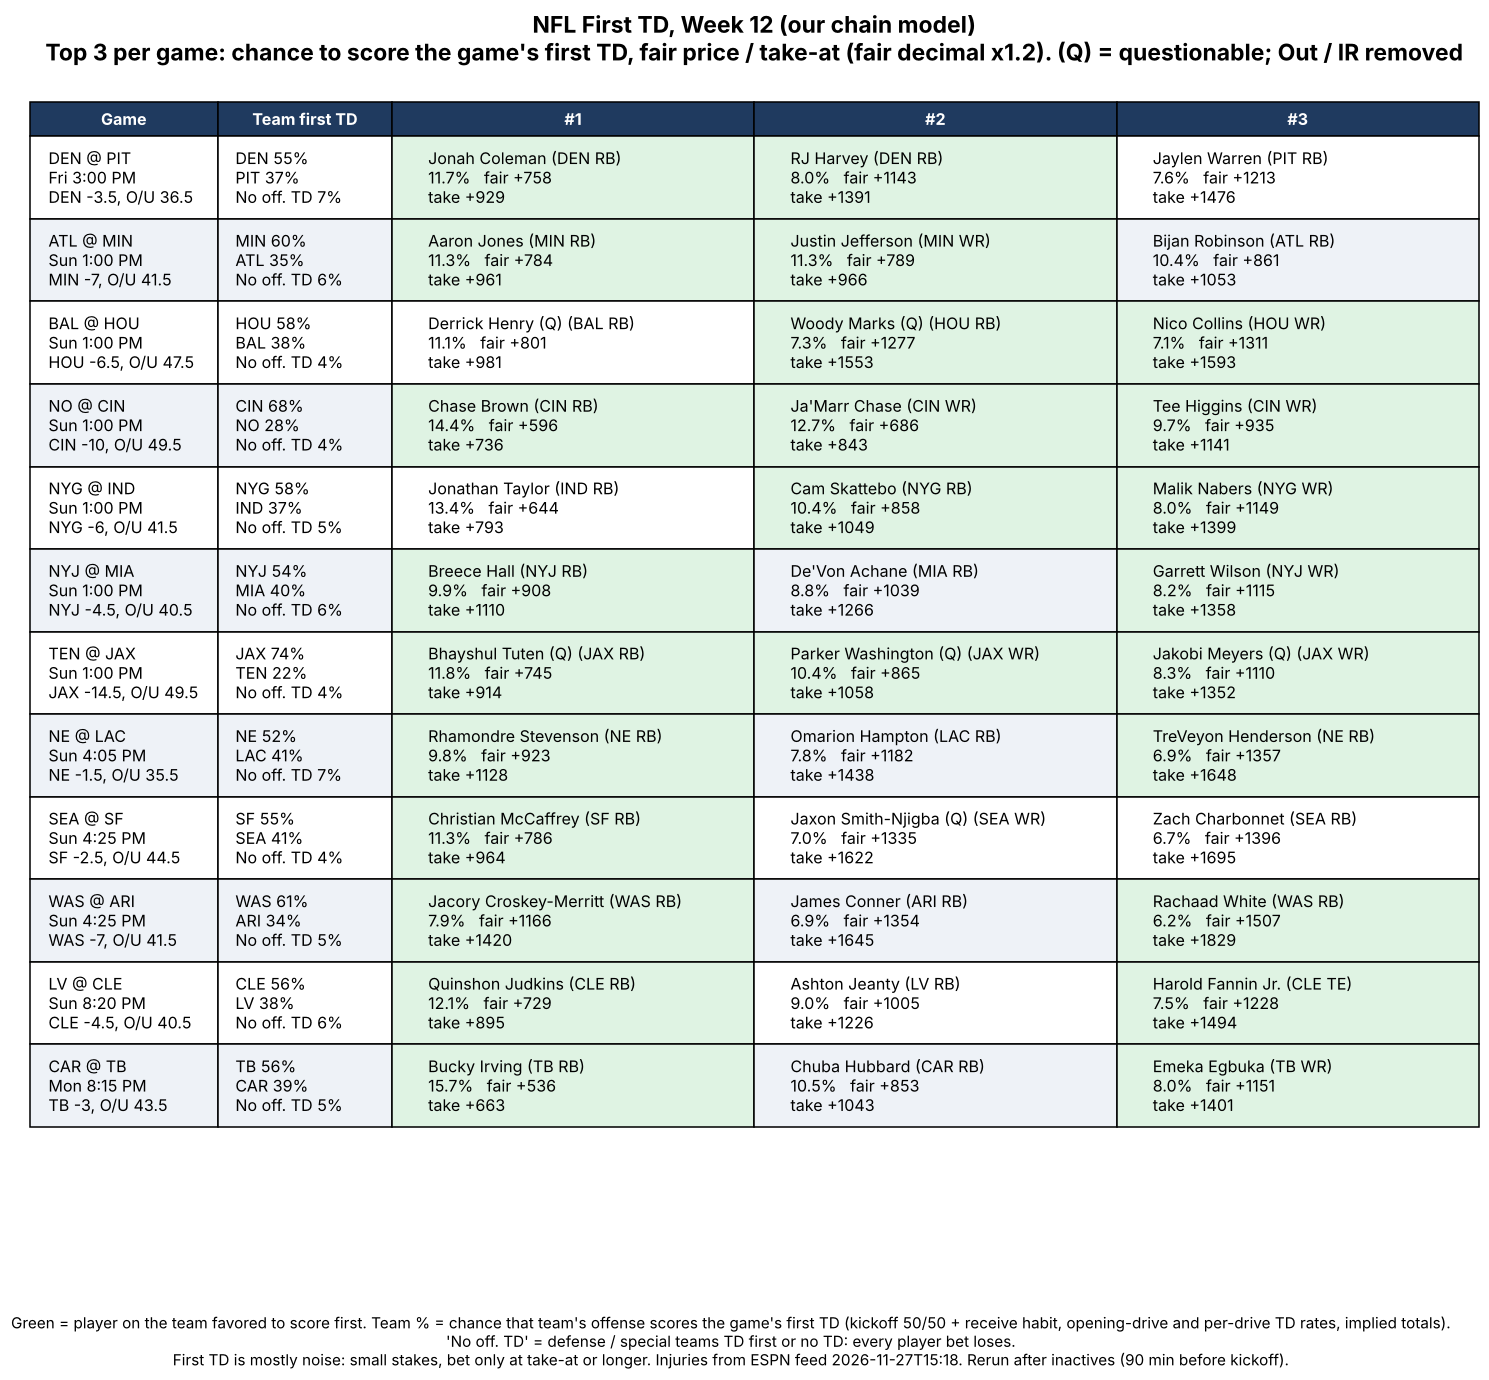
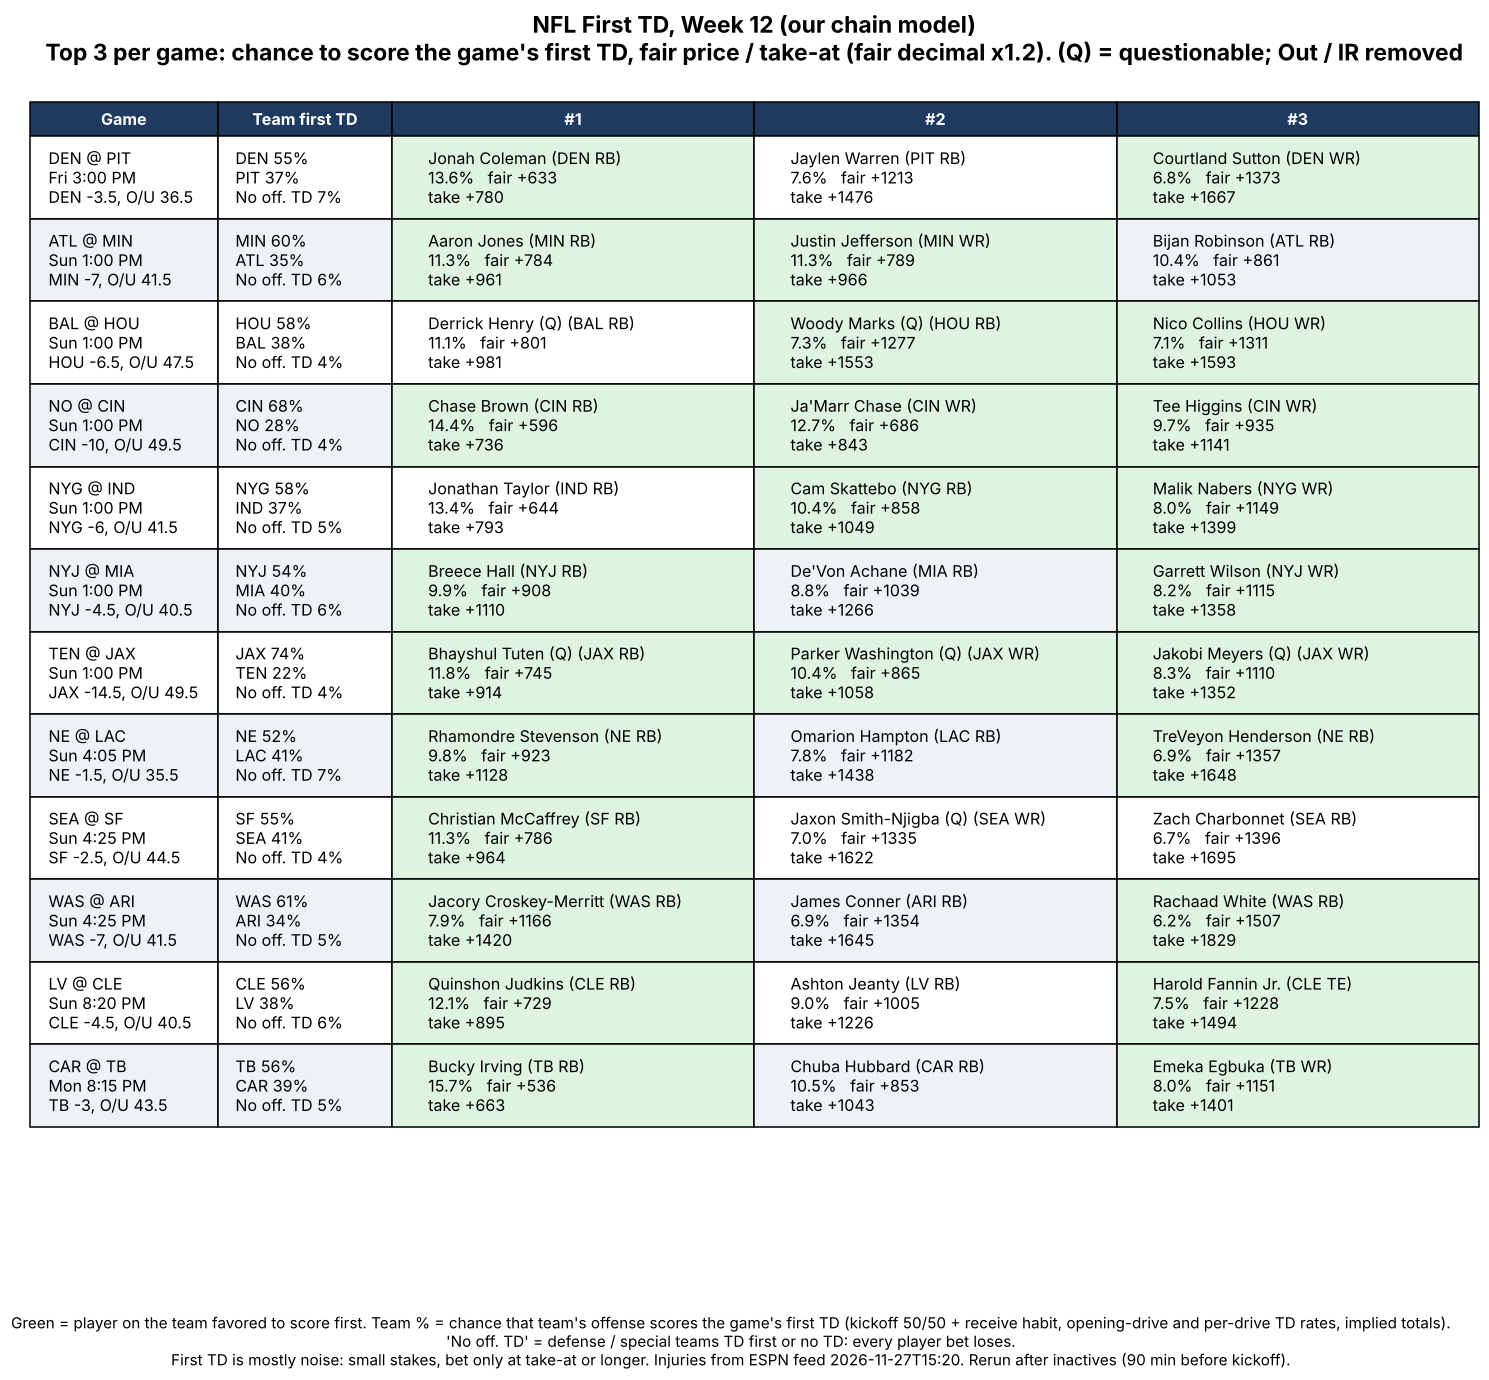
NFL DEN@PIT: rerun without RJ Harvey (not on FanDuel)
Claude-Session: https://claude.ai/code/session_01TQWUAJSyeczoh1eaRjRwmB

Changed region(s): [[0.4943, 0.0935, 1.0, 0.1558], [0.1236, 0.9659, 0.865, 0.9971], [0.3089, 0.1246, 0.3707, 0.1558]]

diff --git a/analysis/nfl/blackfriday_chart.py b/analysis/nfl/blackfriday_chart.py
@@ -4,14 +4,14 @@ import sys
 sys.path.insert(0, '/home/user/Defined-Risk-Trading/analysis/nfl')
 import thanksgiving_charts as tc
 
-tc.G['den_pit'] = ('DEN @ PIT  Fri 3:00 PM ET  Prime  (DEN -4.5, total 37.5)', [
+tc.G['den_pit'] = ('DEN @ PIT  Fri 3:00 PM ET  Prime  (DEN -4.5, total 37.5)  RJ Harvey OUT', [
   ('PIT +4.5 (side)', '-110', '57% / -132', 'FPI PIT by 0.3: QB change on PIT', 57, 'PASS (Rudolph, Rodgers cut)'),
-  ('Jonah Coleman anytime TD', 'take +126+', '49% / +105', 'Dobbins suspended', 49, 'BET at price $1'),
-  ('RJ Harvey anytime TD', 'take +230+', '34% / +192', 'only at +230 or longer', 34, 'small $0.50 at price'),
-  ('Coleman first TD', 'take +929+', '11.7% / +758', 'top first TD pick', 11.7, '$0.50 at price'),
-  ('Harvey first TD', 'take +1391+', '8.0% / +1143', 'only at +1391 or longer', 8.0, '$0.25 at price'),
+  ('Jonah Coleman anytime TD', 'take -102+', '55% / -123', 'Harvey + Dobbins out (hand adj)', 55, 'BET at price $1'),
+  ('Coleman first TD', 'take +780+', '13.6% / +633', 'top first TD pick', 13.6, '$0.50 at price'),
+  ('Courtland Sutton first TD', 'take +1667+', '6.8% / +1373', 'only at +1667 or longer', 6.8, '$0.25 at price'),
   ('Jaylen Warren first TD', 'take +1476+', '7.6% / +1213', 'PIT top, backup QB cut', 7.6, '$0.25 at price'),
-  ('Coleman or Harvey 1st TD', 'take +509+', '19.7% / +407', 'top-2 combo = DEN pair', 19.7, '$0.50 at price'),
+  ('Coleman or Warren 1st TD', 'take +465+', '21.3% / +370', 'new top-2 combo', 21.3, '$0.50 at price'),
+  ('Coleman or Sutton 1st TD', 'take +487+', '20.4% / +389', 'best DEN pair', 20.4, '$0.25 at price'),
   ('Warren or Dowdle 1st TD', 'take +754+', '14.1% / +611', 'best PIT pair', 14.1, '$0.25 at price'),
   ('First scoring play', 'no edge', 'DEN TD 30.6% / +227', 'x0.92 to x1.04 vs spread', 30.6, 'PASS'),
   ('Total 37.5', 'no model', '-', 'no edge', 0, 'PASS'),

diff --git a/analysis/nfl-picks-2026-wk12-thanksgiving.md b/analysis/nfl-picks-2026-wk12-thanksgiving.md
@@ -84,3 +84,22 @@ DEN J.K. Dobbins suspended (out), RB Tyler Badie Q, S Taylor Rapp OUT, TE Caleb 
 
 If every price qualifies the total is $3.25 (cap $4). FanDuel usually prices Coleman ATD and the either pairs short: skip anything under take-at.
 First TD and first scoring play are mostly noise. No promises.
+
+### Update 11/27 ~11:00 AM ET: RJ Harvey not on FanDuel (treated OUT)
+No injury listed for Harvey; ESPN depth chart now has him 5th at RB (Coleman, Dobbins (suspended), Tyler Badie Q, Cody Schrader, Harvey),
+so likely a healthy scratch. Coleman takes most of his work; Badie (Q) / Schrader are the backups.
+Reran `first_td_week.py --week 12 --out "RJ Harvey" --q "Tyler Badie"`. The anytime TD model does not move usage, so Coleman's anytime
+chance is hand-adjusted from 49% to about 55% (his team first TD share rose x1.31 with Dobbins and Harvey out; scaled at x1.2 to stay conservative).
+Harvey rows above are void. New plays:
+
+| Pick | Chance | Fair | Take-at | Stake | Note |
+|---|---|---|---|---|---|
+| Jonah Coleman anytime TD | 55% | -123 | -102 | $1.00 | hand-adjusted, see above |
+| Coleman first TD | 13.6% | +633 | +780 | $0.50 | |
+| Jaylen Warren first TD | 7.6% | +1213 | +1476 | $0.25 | |
+| Courtland Sutton first TD | 6.8% | +1373 | +1667 | $0.25 | WR, small |
+| Either: Coleman or Warren (new top-2 combo) | 21.3% | +370 | +465 | $0.50 | different teams |
+| Either: Coleman or Sutton (best DEN pair) | 20.4% | +389 | +487 | $0.25 | same team |
+| Either: Warren or Dowdle (best PIT pair) | 14.1% | +611 | +754 | $0.25 | |
+
+Side, first scoring play and total: still pass. Max $3.00 if every price qualifies (cap $4).
